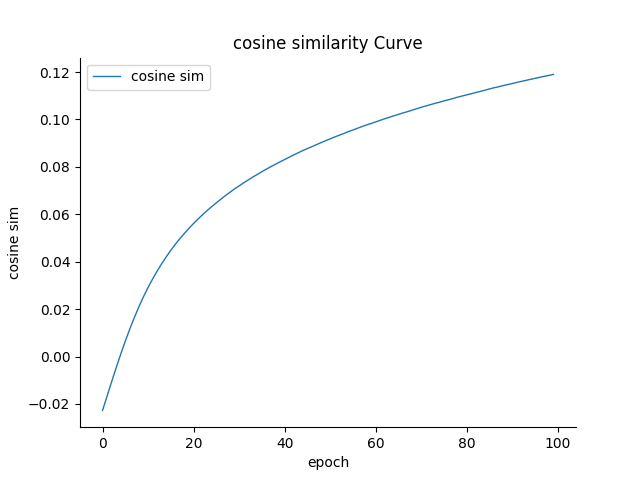
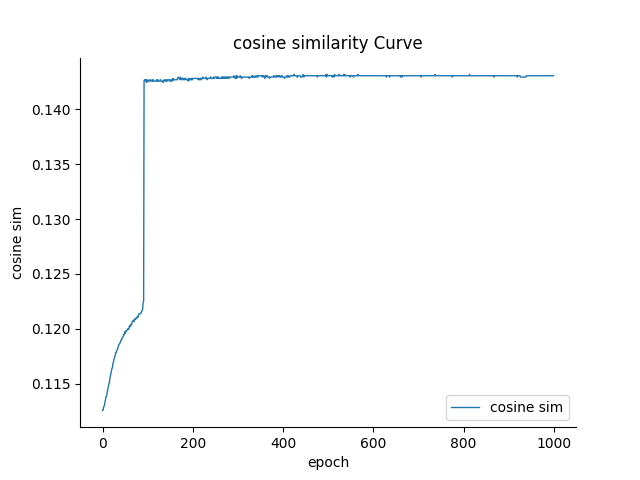
fix softmax error

diff --git a/ccs20.py b/ccs20.py
@@ -31,8 +31,21 @@ embed_layer = model.model.get_input_embeddings()
 
 
 '''the original prompt we try to infer'''
-prompt = "yes sir"
+# prompt = """We have long been expecting you,” said Stepan Arkadyevitch, going into 
+# his room and letting Levin’s hand go as though to show that here all 
+# danger was over. “I am very, very glad to see you,” he went on. “Well, 
+# how are you? Eh? When did you come?” Levin was silent, looking at the unknown faces of Oblonsky’s two 
+# companions, and especially at the hand of the elegant Grinevitch, which 
+# had such long white fingers, such long yellow filbert-shaped nails, and 
+# such huge shining studs on the shirt-cuff, that apparently they 
+# absorbed all his attention, and allowed him no freedom of thought. 
+# Oblonsky noticed this at once, and smiled. “I have the honor of knowing your brother, Sergey Ivanovitch,” said 
+# Grinevitch, holding out his slender hand with its long nails. """
+# prompt = "I fly at least once a month ZRH-LJU-ZRH. My experience is that the staff on the ground need a better education regarding how to care of passengers. If it comes to a delay and pax have to go to the info desk to change tickets and so on then you really see of how unfriendly and unprepared staff are. The airplanes could be cleaned better and I do also see some room for improvement for the flight staff."
+# prompt = "On my Ljubljana - Munich flight in business class Adria used the CRJ-900 Next Generation which is a great plane. I love the very large windows which are at a proper height so that you don't have to bend your neck down in order to look out the window like on the older versions of this Bombardier equipment. Moreover the aircraft is very quiet. It's a short flight but in business class you got a good meal and a comfy seat."
+# 0.5283 precision (1000 epoch), 0.5566 precision (500 epoch)
 
+prompt = "yes sir"
 
 '''get answer's hidden state'''
 with torch.no_grad():
@@ -53,7 +66,6 @@ z.requires_grad_(True)
 # temperature=0.05   # change hyperparameters
 temperature = 1
 
-# set fixed <start> token
 START_EMBED = torch.zeros(tokenizer.vocab_size, 1).type(torch.float16)
 START_EMBED[1][0] = 1    # fix the first token as <start>
 # z = torch.cat((start_embed, z), dim=1)
@@ -67,20 +79,23 @@ START_EMBED[1][0] = 1    # fix the first token as <start>
 
 '''define loss func'''
 loss_func = torch.nn.MSELoss(reduction='mean')
-optim = torch.optim.SGD([z], lr=10000)
+optim = torch.optim.SGD([z], lr=100)
 # optim = torch.optim.Adam([z], lr=0.001)
-scheduler = torch.optim.lr_scheduler.ExponentialLR(optim, gamma=0.995)
+scheduler = torch.optim.lr_scheduler.StepLR(optim, 300,
+                                            gamma=0.2)
 epochs = []
 loss_lst = []
 cos_sim_lst = []
 
-total_epoch = 100
+total_epoch = 1000
 
 for i in range(total_epoch):
     '''forward pass'''
-    sftz = F.softmax(z / temperature, dim=1)
+    sftz = F.softmax(z / temperature, dim=0)
     sftz = torch.cat((START_EMBED.to(sftz.device), sftz), dim=1)    # add a fixed <start> token
+    print('sftz:', sftz)
     new_input_embed = torch.mm(sftz.T, embed_layer.weight)
+    print("new input embed", new_input_embed)
 
 
     '''then I need ||phi(relaxed(Z, T)) - phi(x*)||**2'''
@@ -133,7 +148,7 @@ with torch.no_grad():
 
 
 '''show low confidence word'''
-sftz_conf = F.softmax(z, dim=1)
+sftz_conf = F.softmax(z, dim=0)
 sftz_conf = torch.cat((START_EMBED.to(sftz_conf.device), sftz_conf), dim=1)    # add a fixed <start> token
 print("low confidence:\n",torch.max(sftz_conf, dim=0))
 non_confid_ids = (torch.max(sftz_conf, dim=0).values <= 0.98)
@@ -141,28 +156,28 @@ print(non_confid_ids)
 print(tokenizer.decode(target_input_ids[0][non_confid_ids]))
 
 
-# '''show loss curve'''
-# plt.figure()
-# ax = plt.axes()
-# ax.spines['top'].set_visible(False)
-# ax.spines['right'].set_visible(False)
+'''show loss curve'''
+plt.figure()
+ax = plt.axes()
+ax.spines['top'].set_visible(False)
+ax.spines['right'].set_visible(False)
 
-# plt.xlabel('epoch')
-# plt.ylabel('loss')
-# plt.plot(epochs, loss_lst, linewidth=1, linestyle='solid', label='L2 loss')
-# plt.legend()
-# plt.title('L2 Loss Curve')
-# plt.savefig("loss-{}-{}-{}-{}-{}-{}.png".format(*time.localtime()))
+plt.xlabel('epoch')
+plt.ylabel('loss')
+plt.plot(epochs, loss_lst, linewidth=1, linestyle='solid', label='L2 loss')
+plt.legend()
+plt.title('L2 Loss Curve')
+plt.savefig("loss-{}-{}-{}-{}-{}-{}.png".format(*time.localtime()))
 
 
-# plt.figure()
-# ax = plt.axes()
-# ax.spines['top'].set_visible(False)
-# ax.spines['right'].set_visible(False)
+plt.figure()
+ax = plt.axes()
+ax.spines['top'].set_visible(False)
+ax.spines['right'].set_visible(False)
 
-# plt.xlabel('epoch')
-# plt.ylabel('cosine sim')
-# plt.plot(epochs, cos_sim_lst, linewidth=1, linestyle='solid', label='cosine sim')
-# plt.legend()
-# plt.title('cosine similarity Curve')
-# plt.savefig("cos-sim-{}-{}-{}-{}-{}-{}.png".format(*time.localtime()))
+plt.xlabel('epoch')
+plt.ylabel('cosine sim')
+plt.plot(epochs, cos_sim_lst, linewidth=1, linestyle='solid', label='cosine sim')
+plt.legend()
+plt.title('cosine similarity Curve')
+plt.savefig("cos-sim-{}-{}-{}-{}-{}-{}.png".format(*time.localtime()))

diff --git a/modeling_llama.py b/modeling_llama.py
@@ -854,6 +854,8 @@ class LlamaModel(LlamaPreTrainedModel):
             batch_size, seq_length = input_ids.shape
         elif inputs_embeds is not None:
             # print("inference by input embedding")
+            # print("handmade embedding:", inputs_embeds)
+            # NOTE: start embedding already set correct
             batch_size, seq_length, _ = inputs_embeds.shape
         else:
             raise ValueError("You have to specify either input_ids or inputs_embeds")
@@ -874,7 +876,8 @@ class LlamaModel(LlamaPreTrainedModel):
 
         if inputs_embeds is None:
             inputs_embeds = self.embed_tokens(input_ids)
-            print("input embeds", inputs_embeds)
+            # print("input embeds (for first start token)", inputs_embeds)
+            # NOTE: start embedding already right
         # embed positions
         if attention_mask is None:
             attention_mask = torch.ones(
@@ -907,18 +910,20 @@ class LlamaModel(LlamaPreTrainedModel):
         next_decoder_cache = () if use_cache else None
 
         for idx, decoder_layer in enumerate(self.layers):
+            # or to modifiy this, if idx > some certain number, cut the forward process?
+            # cut to 8 layers
+            if idx >= 8:
+                continue
+
+            print(idx, hidden_states)
+
             if output_hidden_states:
                 all_hidden_states += (hidden_states,)
 
             past_key_value = past_key_values[idx] if past_key_values is not None else None
 
+                
             # if self.gradient_checkpointing and self.training:    # modified!
-            # or to modifiy this, if idx > some certain number, cut the forward process?
-            # cut to 8 layers
-            if idx >= 8:
-                continue
-            # print("forward pass layer", idx)
-            # print(decoder_layer)
             if self.gradient_checkpointing:
                 # print("WARNING: using gradient checkpointing")
                 def create_custom_forward(module):
